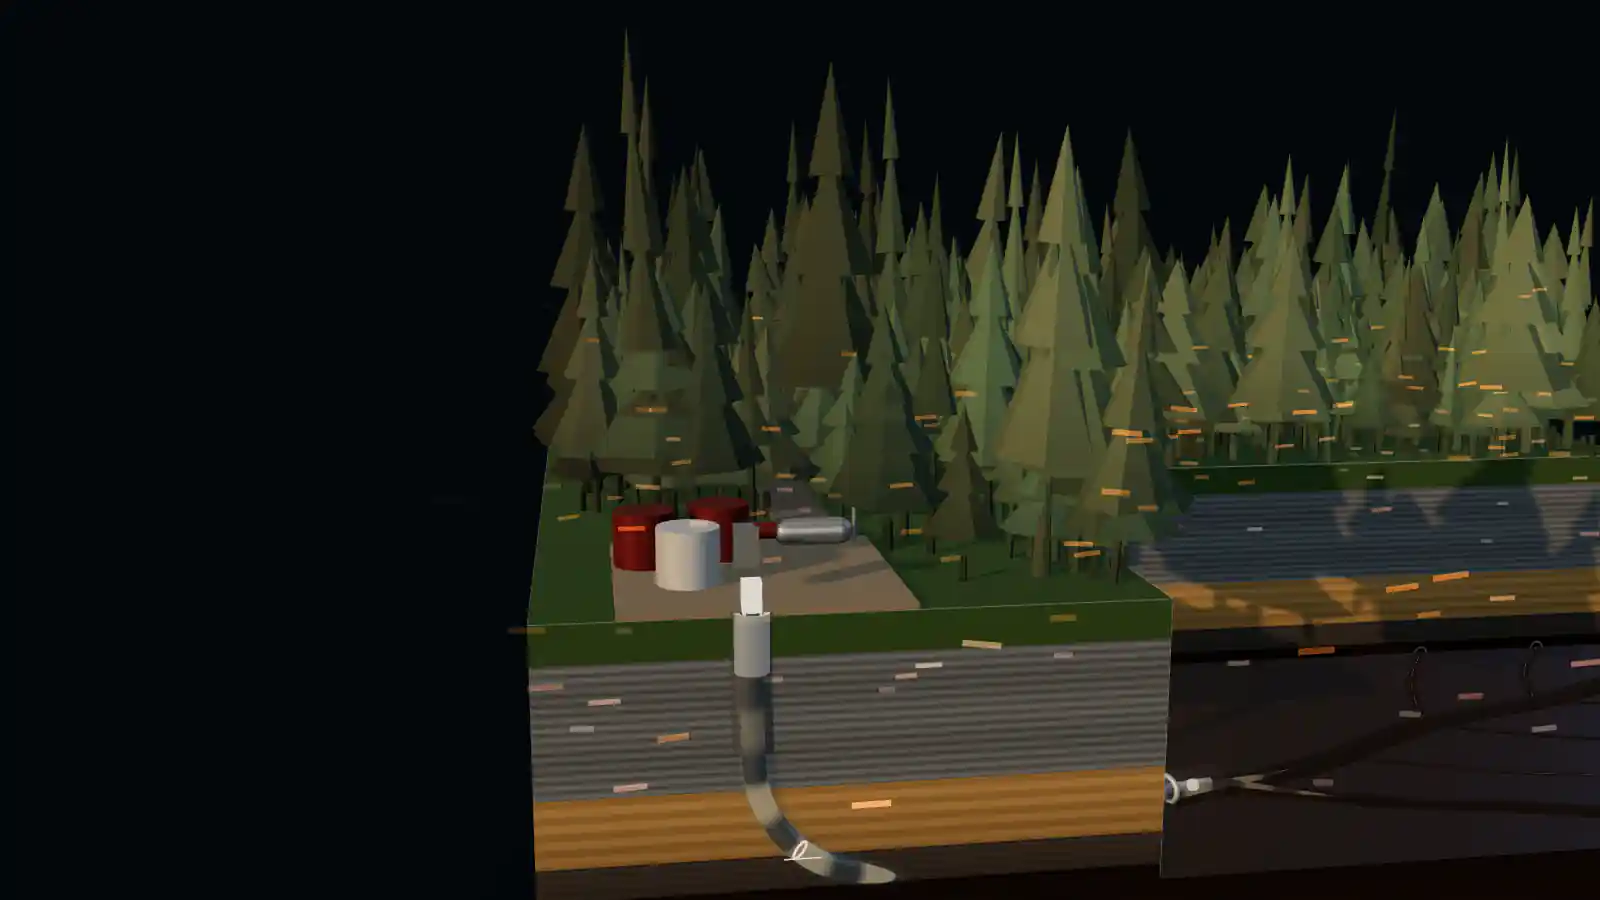
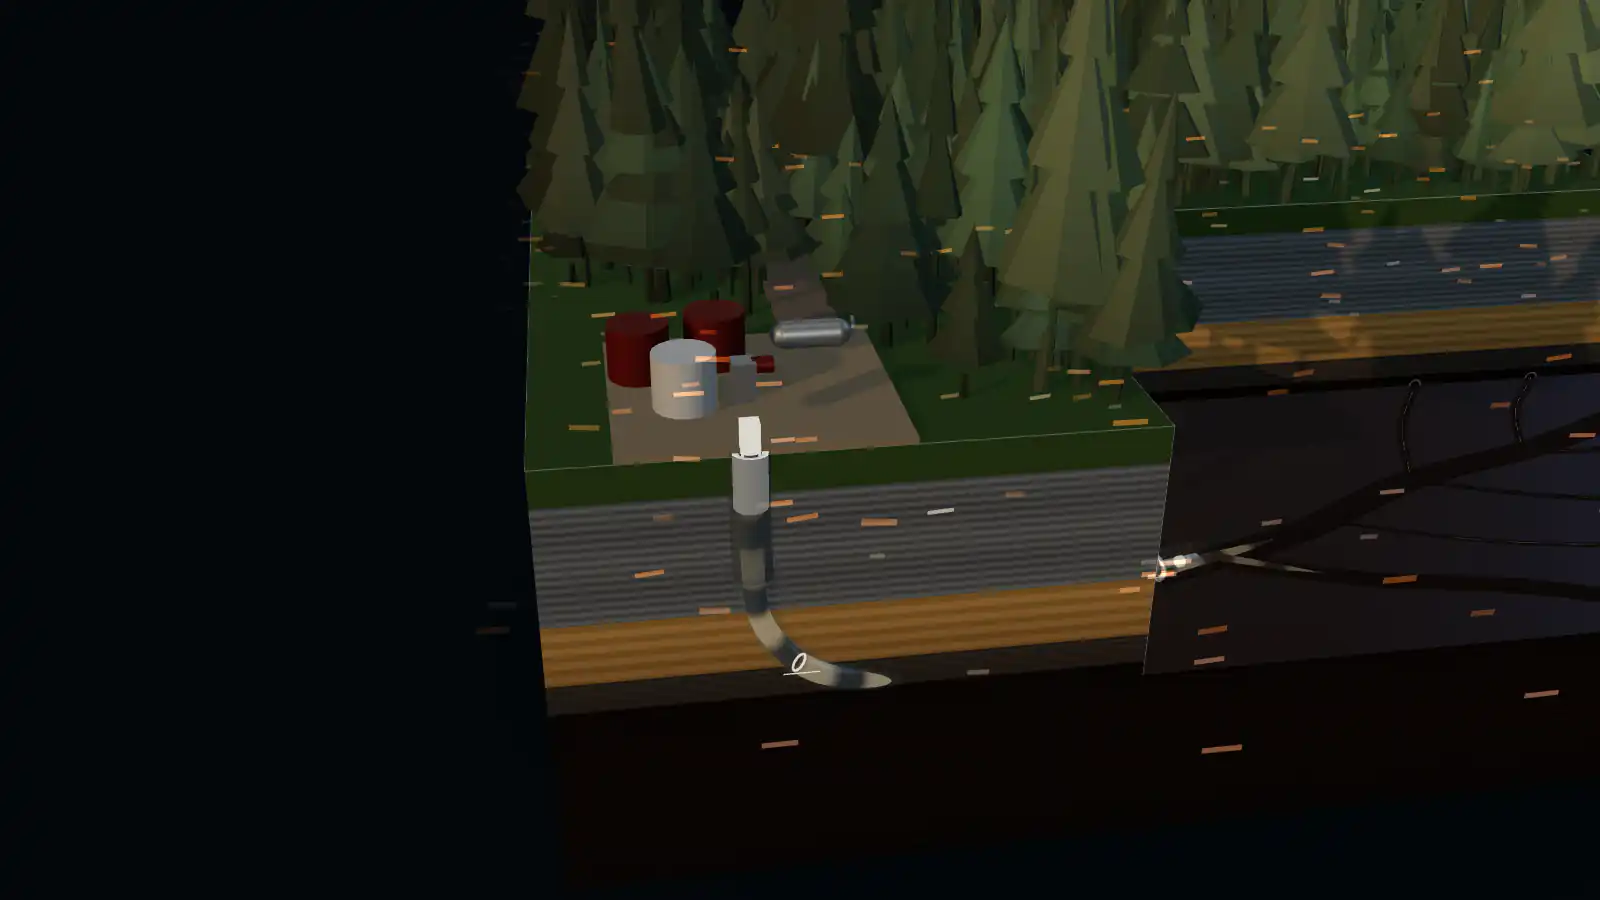
fix(world): round-2 follow-through — collar above the strip in ch3, pad in the rise band, contact order H2 → qualifier → fallback, rail plain over the paper sheet, cyan criterion tightened, scroll caps re-measured; stills regenerated

diff --git a/src/styles/rail.css b/src/styles/rail.css
@@ -48,15 +48,11 @@ html.stills-on .rail-tally, html.stills-on .rail-legend { opacity: 1; transform:
 .rail-legend-item:hover, .rail-legend-item:focus-visible, .rail-legend-item.is-active { color: var(--sand); border-left-color: var(--sand); }
 .rail-legend-item:focus-visible { outline: 1px solid var(--ember); outline-offset: 2px; }
 
-/* Over the paper chapter the rail turns to ink on a paper-tinted ground: invisible on the paper itself, a light
-   card where it overlaps the rise band above it. (A dark box here read as a grey tombstone — round 1.) */
-.rail[data-chapter="yotin"] { background: rgba(245, 240, 232, 0.9); padding: 10px 10px 10px 0; border-radius: 6px; color: #1b1f24; }
-.rail[data-chapter="yotin"] .rail-chapters a, .rail[data-chapter="yotin"] .rail-list li, .rail[data-chapter="yotin"] .rail-legend-item, .rail[data-chapter="yotin"] .rail-caption { color: #4a4f56; border-left-color: rgba(27, 31, 36, 0.25); } /* ≈ 7.4:1 on the paper card */
-.rail[data-chapter="yotin"] .rail-list li.is-lit, .rail[data-chapter="yotin"] .rail-tally.is-signal .rail-list li[data-tally="wellfi"].is-lit { color: #1b1f24; }
+/* The paper chapter: the paper is a sheet laid on the world, inset from the rail gutter, so the rail keeps its
+   sand-on-dark colours over the world that runs beside the sheet; the tally/legend are already hidden there
+   (chapter index ≥ 5) and the return marker with them. (A paper-tinted card over the rise band read as a light
+   tombstone — round 2.) */
 .rail[data-chapter="yotin"] .rail-marker-up { display: none; }
-.rail[data-chapter="yotin"] .rail-chapters a[aria-current="true"] { color: #9f470d; border-left-color: #9f470d; }
-.rail[data-chapter="yotin"] .rail-track { border-left-color: rgba(27, 31, 36, 0.3); }
-.rail[data-chapter="yotin"] .rail-marker-down { background: #1b1f24; }
 
 /* Reserved gutter: copy never enters the rail's column. */
 @media (min-width: 1101px) { html.world-on main { padding-left: 196px; } }
@@ -75,10 +71,6 @@ html.stills-on .rail-tally, html.stills-on .rail-legend { opacity: 1; transform:
   .rail-legend { display: none; pointer-events: auto; background: rgba(3, 7, 11, 0.94); padding: 8px 16px 12px; border-bottom: 1px solid rgba(232, 220, 200, 0.12); opacity: 1; transform: none; }
   .rail.is-open .rail-legend { display: flex; }
   .rail-legend-item { min-height: 44px; display: flex; align-items: center; }
-  .rail[data-chapter="yotin"] { background: transparent; padding: 0; }
-  .rail[data-chapter="yotin"] .rail-bar { background: rgba(245, 240, 232, 0.92); color: #4a4f56; border-bottom-color: rgba(27, 31, 36, 0.15); }
-  .rail[data-chapter="yotin"] .rail-bar-current { color: #9f470d; }
-  .rail[data-chapter="yotin"] .rail-bar-tally { color: #1b1f24; }
 }
 @media (prefers-reduced-motion: reduce) { .rail *, .rail-tally, .rail-legend { transition: none !important; } }
 

diff --git a/src/styles/world.css b/src/styles/world.css
@@ -263,11 +263,9 @@ html.world-on .contact-section h2 span { color: var(--sand); }
   html.world-on .signal-strip { gap: 6px; }
 }
 
-/* Chapter 5: the paper runs full-bleed into the rail gutter (a dark column beside cream read as a layout seam —
-   round 1); the rail keeps its own ground as a small dark card on the paper. */
-@media (min-width: 1101px) {
-  html.world-on .company-section .company-grid { margin-left: -196px; padding-left: calc(196px + var(--pad, 24px)); border-radius: 0 10px 0 0; }
-}
+/* Chapter 5: the paper is a sheet laid on the world — inset from the rail gutter on the left, so the gutter shows
+   the world beside it and the rail stays sand-on-dark (round 2; the full-bleed variant put a light card over
+   the rise band). */
 
 /* Reveals over the world settle sooner and travel less (round 1: half-revealed cards at the chapter anchor read
    as disabled). Same view() timeline; a gentler keyframe and a range that completes by the time the element's
@@ -283,10 +281,17 @@ html.world-on .contact-section h2 span { color: var(--sand); }
 /* Chapter 6 (round 2): questions left, live well right — one column at ≤ 50 % so the right half stays the
    world's; the H2 steps down so Q1 is on screen at the anchor on a 768-tall laptop. */
 @media (min-width: 1101px) {
-  html.world-on .contact-grid { grid-template-columns: minmax(0, 1fr); max-width: 50%; gap: 20px; align-items: start; }
-  html.world-on .contact-section h2 { font-size: clamp(38px, 4.2vw, 60px); }
-  html.world-on .contact-actions > p { font-size: 17px; margin-bottom: 14px; }
-  html.world-on .contact-section { padding-top: 40px; }
+  /* order: eyebrow + H2 → the qualifier (the invited action, Q1 on screen at the anchor) → the email / ChatFi
+     fallback — the contact grid becomes display: contents so its two blocks join the section's flex column */
+  html.world-on .contact-section { display: flex; flex-direction: column; padding-top: 40px; }
+  html.world-on .contact-grid { display: contents; }
+  html.world-on .contact-grid > div, html.world-on .contact-section .fit-shell { width: min(100%, var(--shell)); margin-inline: auto; padding-inline: var(--pad); box-sizing: border-box; }
+  html.world-on .contact-grid > div:first-child { order: 1; max-width: 50%; margin-left: 0; }
+  html.world-on .contact-section .fit-shell { order: 2; margin-top: 18px; }
+  html.world-on .contact-grid > .contact-actions { order: 3; max-width: 50%; margin-left: 0; margin-top: 28px; }
+  html.world-on .contact-grid > div::before { inset: -16px -20px; }
+  html.world-on .contact-section h2 { font-size: clamp(38px, 4.2vw, 58px); margin-bottom: 0; }
+  html.world-on .contact-actions > p { font-size: 17px; margin-bottom: 12px; }
 }
 
 /* Units keep their casing inside uppercase mono chrome (kPa, mm/s RMS, 4-20 mA, °C) — round 2. */

diff --git a/src/chapters.js b/src/chapters.js
@@ -23,10 +23,10 @@ export const POSES = [
   { id: 'surface',      position: [27.8, 22.0, 30.9], target: [-1.8, -1.3, 2.2],  fov: 20, mobile: { position: [24.0, 22.5, 30.5], target: [-1.2, -3.2, 2.2], fov: 30 } },
   { id: 'descent',      position: [-0.2, 2.3, 15.2],  target: [-4.9, -1.2, 5.0],  fov: 28, mobile: { position: [-0.6, 1.4, 16.5], target: [-4.9, -2.4, 5.0], fov: 38 } },
   { id: 'tool',         position: [1.6, -1.3, 7.4],   target: [-0.55, -2.45, 3.3], fov: 24, mobile: { position: [1.9, -1.85, 9.8], target: [-0.55, -3.55, 3.3], fov: 34 } }, // mobile: tool in the upper 38 vh band above the cards (round 2)
-  { id: 'signal',       position: [3.2, 0.9, 12.0],   target: [-2.8, -1.4, 4.0],  fov: 27, mobile: { position: [2.0, -0.4, 21.0], target: [-0.6, -5.4, 3.2], fov: 36 } }, // collar right of centre AND the wellhead/front-face return in frame (round 2); mobile: collar in the 42 vh band
+  { id: 'signal',       position: [4.1, 0.55, 13.2],  target: [-2.8, -2.1, 4.0],  fov: 28, mobile: { position: [2.0, -0.4, 21.0], target: [-0.6, -5.4, 3.2], fov: 36 } }, // collar right of centre AND the wellhead/front-face return in frame (round 2); mobile: collar in the 42 vh band
   { id: 'deployment-a', position: [-2.0, -0.8, 10.3], target: [-4.9, -2.15, 5.45], fov: 24, mobile: { position: [-1.6, -1.2, 12.5], target: [-4.4, -3.4, 5.2], fov: 34 } }, // the instrument: cased string u 0.3–0.55 on the front face, landing right of centre (round 2)
   { id: 'deployment-b', position: [4.6, 1.2, 15.8],   target: [0.6, -2.5, 2.4],   fov: 28, mobile: { position: [4.0, 2.0, 21.0], target: [0.4, -2.8, 2.4], fov: 38 } },
-  { id: 'yotin',        position: [-6.5, 3.4, 16.5],  target: [-4.6, 1.1, 3.6],   fov: 34, mobile: { position: [-6.0, 4.0, 20.0], target: [-4.6, 0.4, 3.6], fov: 44 } }, // lower, flatter: the island low in the rise band, strokes read as wind over the pad (round 2)
+  { id: 'yotin',        position: [-6.5, 5.4, 15.5],  target: [-4.6, -0.7, 3.6],  fov: 34, mobile: { position: [-6.0, 5.8, 19.5], target: [-4.6, -1.2, 3.6], fov: 44 } }, // the pad + wind in the upper 60 vh band, paper below (round 2) // lower, flatter: the island low in the rise band, strokes read as wind over the pad (round 2)
   { id: 'fit',          position: [1.6, -0.3, 12.8],  target: [-3.0, -2.3, 4.4],  fov: 30, mobile: { position: [1.8, 0.2, 16.5], target: [-3.0, -2.7, 4.4], fov: 40 } },
 ];
 

diff --git a/docs/superpowers/specs/2026-08-19-yotin-threejs-world-design.md b/docs/superpowers/specs/2026-08-19-yotin-threejs-world-design.md
@@ -103,7 +103,7 @@ DOM order: Hero + signal strip (h2 → h3 captions) → `#wellfi` [intro · chan
 | reduced-motion full scroll | first paint + 6 lazy stills (chapters 1–6, ≤ 22 KB each) = **≤ 259 KB excluding fonts/marks/`ui`**; all-in **≤ 470 KB**; **zero `world` requests including modulepreload** |
 | runtime | **re-baselined 2026-08-19 (round 1):** ≤ 80 calls / 130 k tris desktop (tier 3 *including* the sun shadow pass, which re-draws forest + pad + casing: ≈ +25 calls / +40 k tris); ≤ 56 calls / 62 k tris phone (tier 1); DPR 1.75 / 1.5 / 1.35 — `renderer.info` at every chapter anchor, `npm run check:runtime` (scripts/frames.mjs --strict). The 55 / 100 k estimate came from the spike before field, motes, legs and shadows; measured now: 1440×900 ch0 76 / 120 k, ch3 49 / 103 k; 390×844 tier 1 ch0 54 / 59 k |
 | frame time | median ≤ 12 ms, p95 ≤ 16.7 ms desktop over 120 settled frames; p95 ≤ 25 ms phone emulation — Playwright CPU 4×, 3 runs (regression gate) **plus** a production gate on one Intel-integrated corporate laptop and one mid-tier phone: 60 s trace through chapters 0/3/6, peak frame time, memory, context loss |
-| scroll length | **accepted 2026-08-19 (round 1):** the DOM is the site and stays complete; measured 9.9 at 1440×900, 10.9 at 1366×768, 13.7 at 390×844 after the phone diet (two-up channel cards and spec tiles ≤ 560 px) — `npm run check:scroll --strict` asserts ≤ 10.4 / 11.4 / 14.2 so it cannot drift; the conversion path (hero → header **Check your well fit** → qualifier Q1) is one click regardless of length |
+| scroll length | **accepted 2026-08-19 (round 1):** the DOM is the site and stays complete; measured 10.4 at 1440×900, 11.6 at 1366×768, 13.95 at 390×844 after round 2 (60 vh rise band, fit chapter in one column; phone diet = two-up channel cards and spec tiles ≤ 560 px) — `npm run check:scroll` asserts ≤ 10.7 / 11.9 / 14.3 so it cannot drift; the conversion path (hero → header **Check your well fit** → qualifier Q1) is one click regardless of length |
 | contrast | ≥ 4.5:1 copy over canvas per chapter (paper ≥ 7:1) at 1440×900, 1366×768 and 390×844 — frame job with object-ID mask |
 | colour budget | brightest non-sky pixel per chapter matches the ledger; **saturated cyan above 25 % luminance** appears only in ch. 3, at the ch. 6 verdict, and in the Yotin logomark *after* the circuit closes (the ≤ 15 % collar ember in ch. 0–2 and any cyan pixel below that luminance are permitted); ch. 5's wind ramp is **sand → ember** (the shared visual language is the stroke primitive, not the colour); stills reviewed in the same job |
 
